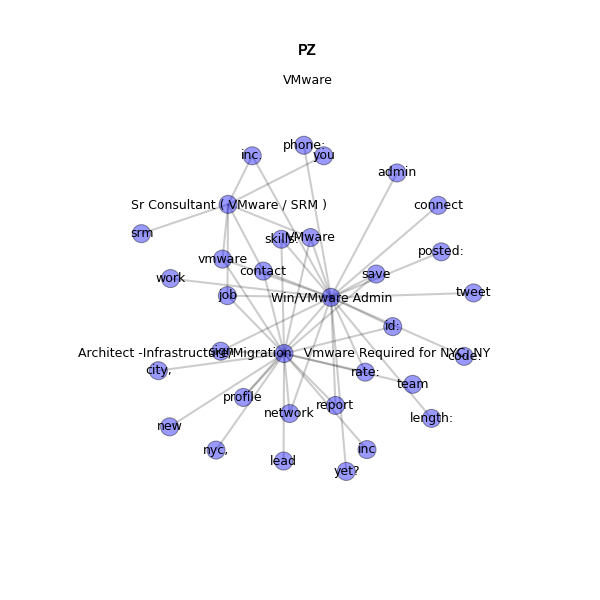
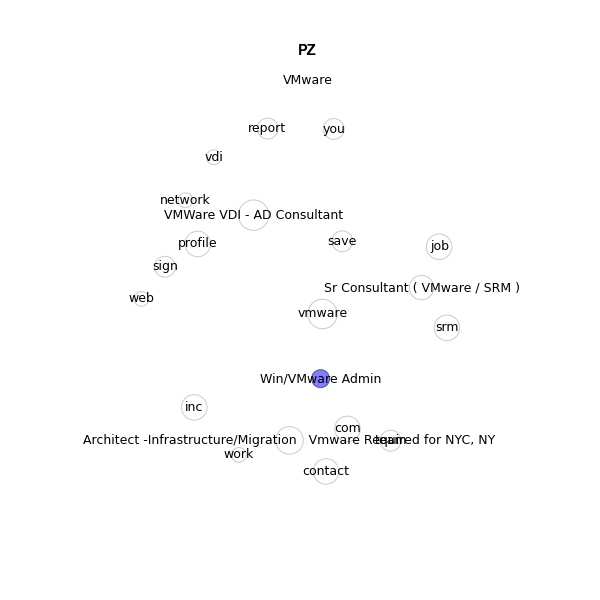
Changing frequency accumulation

diff --git a/DMiner/DMiner.py b/DMiner/DMiner.py
@@ -20,7 +20,7 @@ def visible(element):
     return True
 
 
-def MainSearch(keyword, base="http://seeker.dice.com", tail="/jobsearch/servlet/JobSearch?op=100&NUM_PER_PAGE=3&FREE_TEXT="):
+def MainSearch(keyword, base="http://seeker.dice.com", tail="/jobsearch/servlet/JobSearch?op=100&NUM_PER_PAGE=5&FREE_TEXT="):
     """
     Get job listings from main keyword search and returns bs
     """
@@ -69,21 +69,25 @@ def kw2Jd():
     fExclusions = "C:\\Workdir\\pZuikov\\r\\exclusions.txt"
     exclusions = [line.strip() for line in open(fExclusions)]
     G = nx.MultiDiGraph()
-    Postings = ExtractPostings(MainSearch("vmware"))
+    tail = "/jobsearch/servlet/JobSearch?op=100&NUM_PER_PAGE=" + \
+        str(results) + "&FREE_TEXT="
+    Postings = ExtractPostings(MainSearch("vmware", tail=tail))
 #     G.add_node("VMWare", weight=8, color="b")
     freqs["vmware"] = freqs.get("vmware", 0) + 1
     url2desc = {}
     data = []
     for key in Postings.keys():
         url2desc[key] = ExtractText(GetSoup(key))
-        data.append(("VMware", Postings[key]))
-        G.add_edge("VMware", Postings[key], alpha=0)
+        data.append(("vmware", Postings[key]))
+        G.add_edge("vmware", Postings[key], alpha=0)
         freqs[Postings[key]] = freqs.get(Postings[key], 0) + 1
+
         for line in url2desc[key]:
-            for word in line.lower().split():
+            for word in re.split('[ :,.]', line.lower()):
                 # fetch and increment OR initialize
                 freqs[word] = freqs.get(word, 0) + 1
-                if freqs[word] > 2:
+
+                if freqs[word] > results and freqs[word] < 2 * results:
                     if len(word) < 8 and len(word) > 2:
                         if re.match('\D', word):  # Weed out numerics
                             # Weed out non-alphanumerics
@@ -112,19 +116,36 @@ def Main():
         pos = nx.graphviz_layout(H)
     except:
         pos = nx.spring_layout(H, iterations=20)
-#     print(pos)
-    nx.draw_networkx_edges(
-        H, pos, alpha=0.2, node_size=0, width=2, edge_color='k')
-    nx.draw_networkx_nodes(H, pos, node_color='b', alpha=0.4)
 
+    print(pos)
+    nx.draw_networkx_edges(
+        H, pos, alpha=0.1, node_size=0, width=2, edge_color='w')
     nx.draw_networkx_labels(H, pos, fontsize=12)
 
-    for n in H.nodes(data=True):
-        n[1]['node_color'] = 'g'
-#         if n[0].lower() != 'vmware':
-#             print(n)
+    sampleFreq = dict.fromkeys(G.nodes(), 0.0)
+    for (u, v, d) in G.edges(data=True):
+        sampleFreq[u] += 1.0
+        sampleFreq[v] += 4.0
+#         r = d['freqs']
+#         if r[0] == '1':
+#             wins[u] += 1.0
+#         elif r[0] == '1/2':
+#             wins[u] += 0.5
+#             wins[v] += 0.5
 #         else:
-#             n[1]['node_color'] = 'g'
+#             wins[v] += 1.0
+    nodesize = [sampleFreq[v] * 50 for v in H]
+
+    nodes = H.nodes()
+    blue = nodes.pop()
+
+    nx.draw_networkx_nodes(H, pos, nodelist=[blue], node_color='b', alpha=.5)
+    nx.draw_networkx_nodes(
+        H, pos, nodelist=nodes, node_color='w', alpha=.2, node_size=nodesize)
+#     for i in H.nodes_iter(data=True):
+#         H.nodes[i]['freqs'] = freqs[i][0]
+#         print(i)
+
 #     nodesize = [freqs[v, 0] for v in H]
 #     print(nodesize)
 # nx.draw(H)  # Messes up everything
@@ -133,7 +154,7 @@ def Main():
 
 
 if __name__ == '__main__':
-
+    results = 4
     freqs = {}
     Main()
     print(" ")
